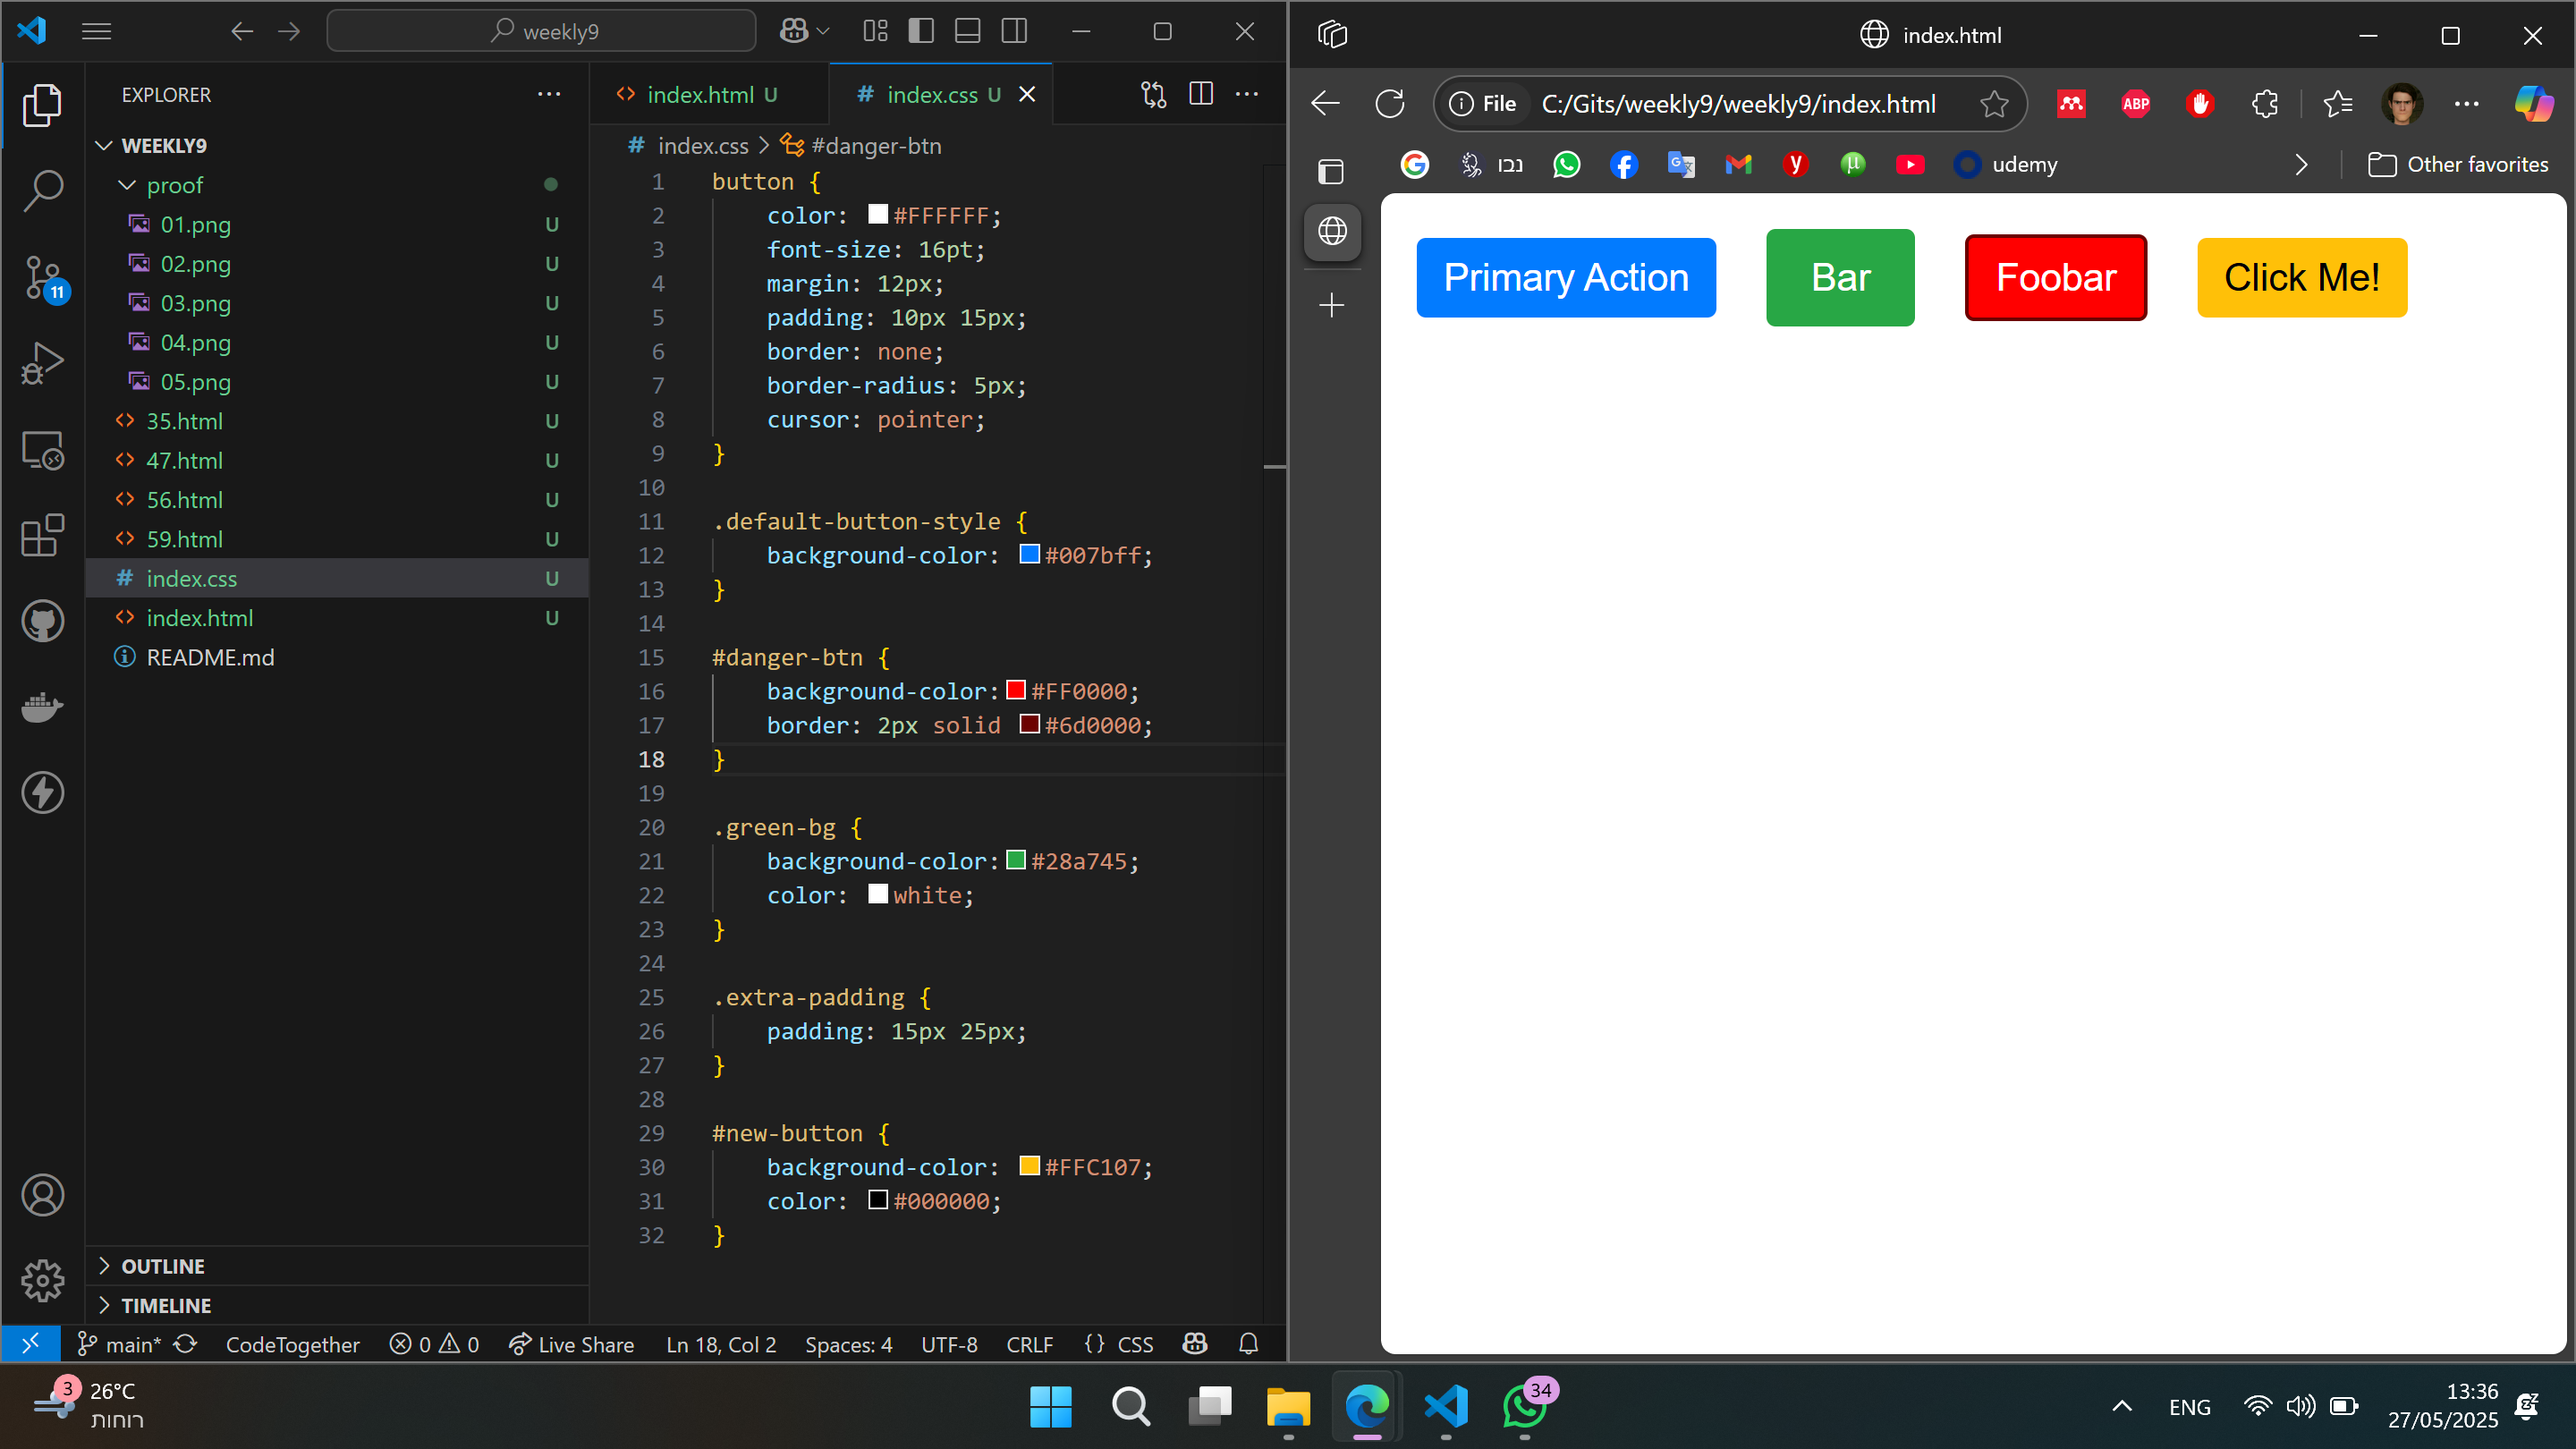
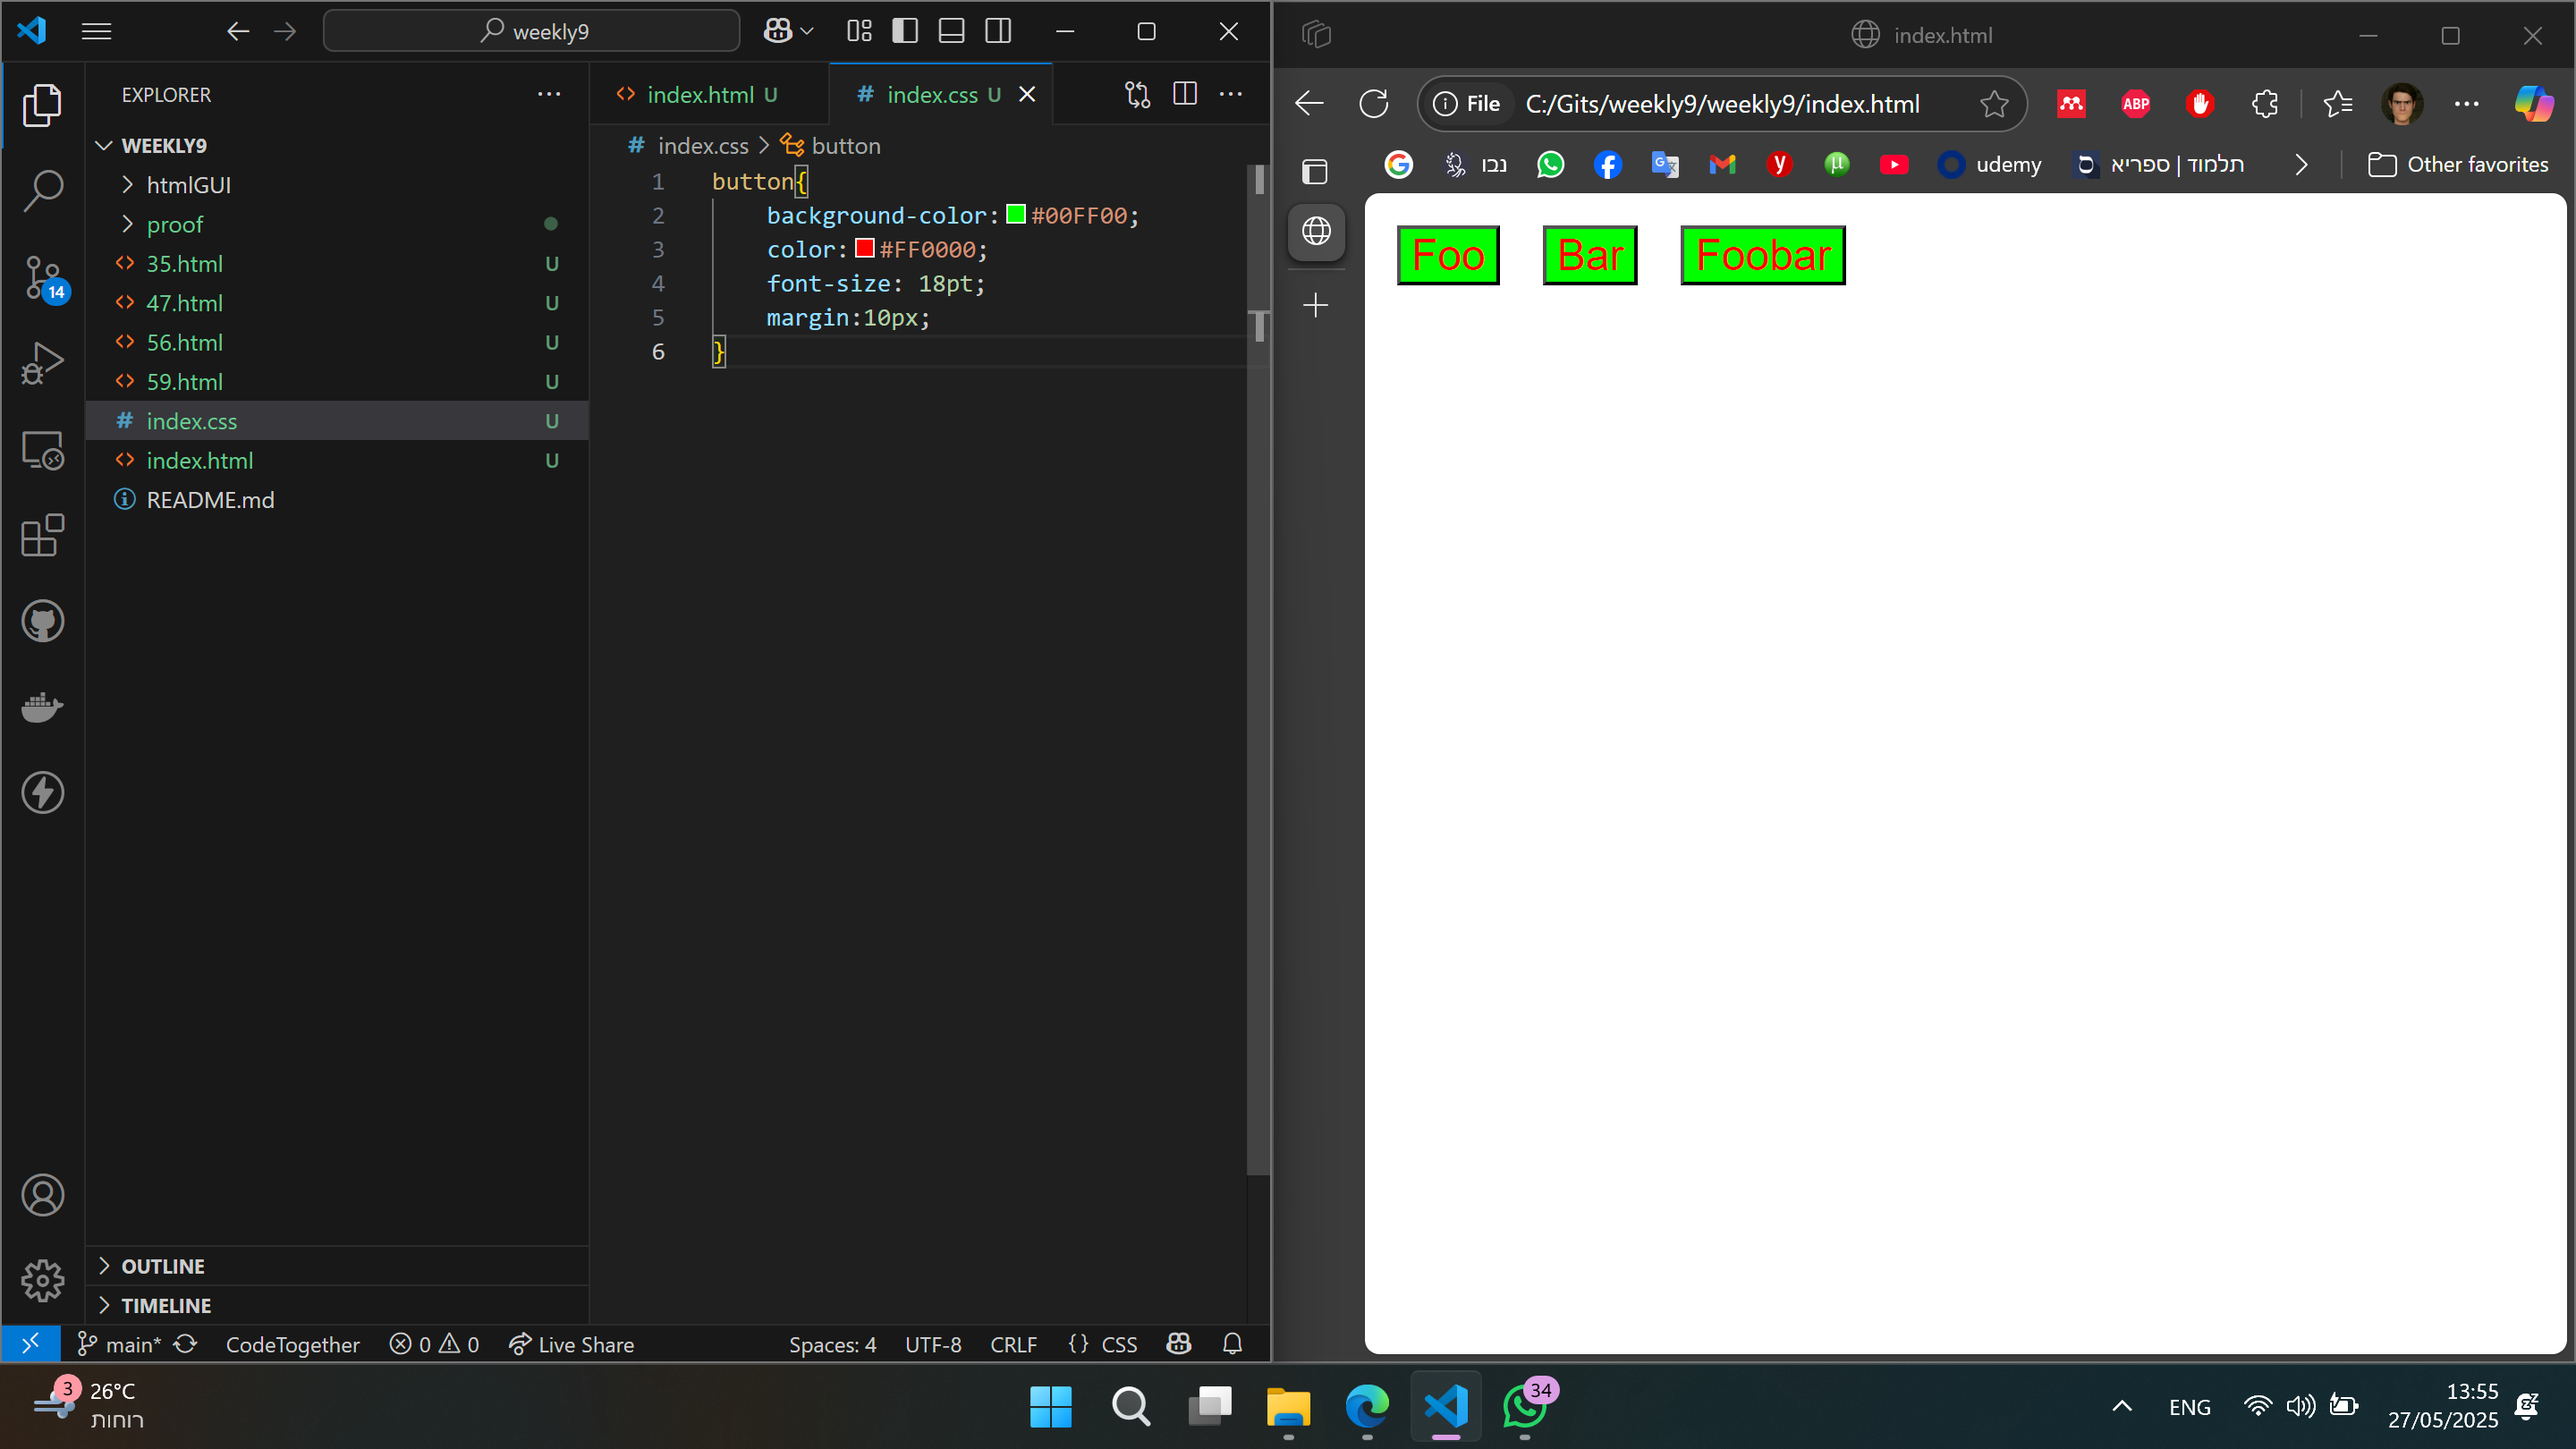
arfa

diff --git a/index.html b/index.html
@@ -1,0 +1,10 @@
+<html>
+<head>
+    <link href="index.css" rel="stylesheet">
+</head>
+<body>
+    <button>Foo</button>
+    <button>Bar</button>
+    <button>Foobar</button>
+</body>
+</html>

diff --git a/index.css b/index.css
@@ -1,0 +1,6 @@
+button{
+    background-color:#00FF00;
+    color:#FF0000;
+    font-size: 18pt;
+    margin:10px;
+}
